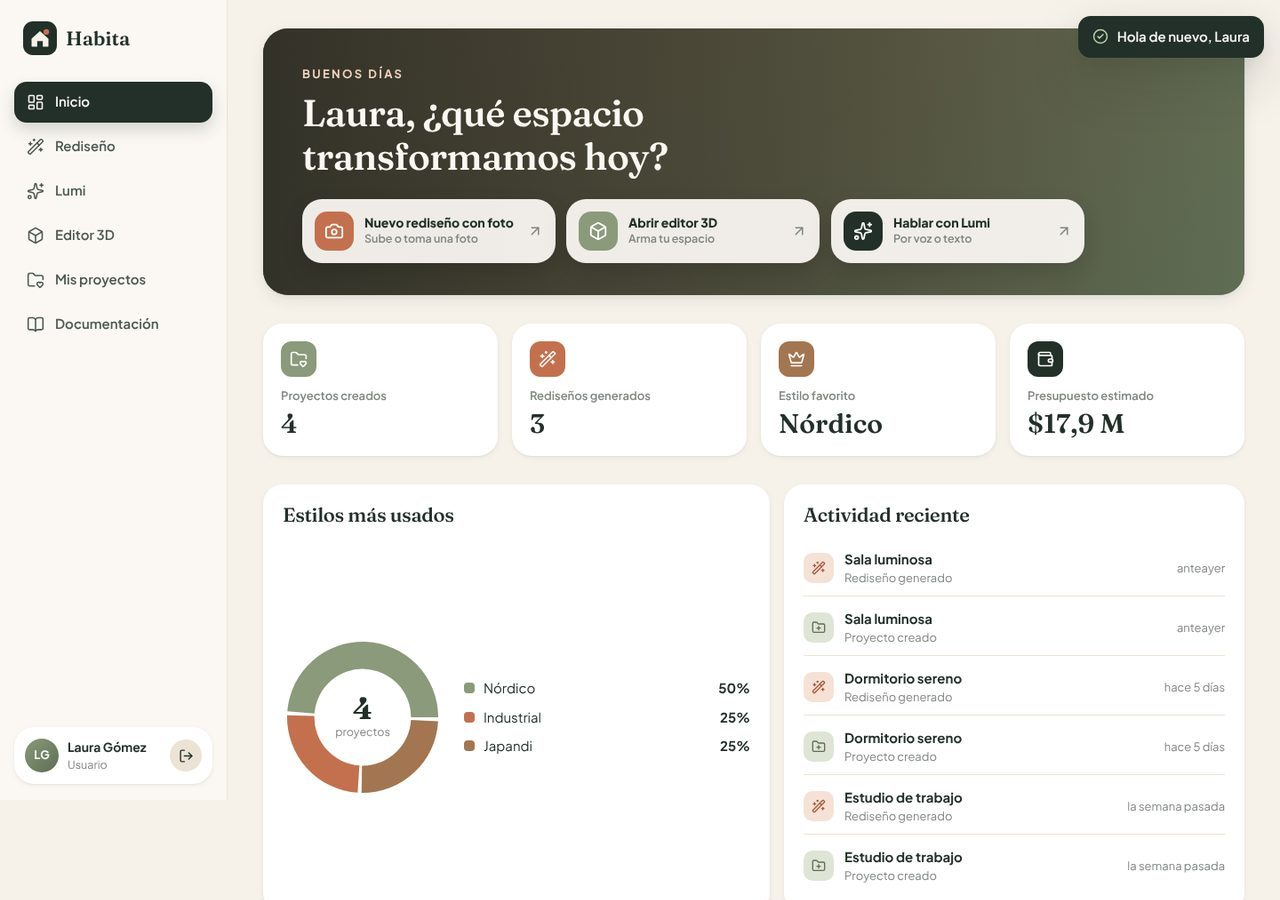
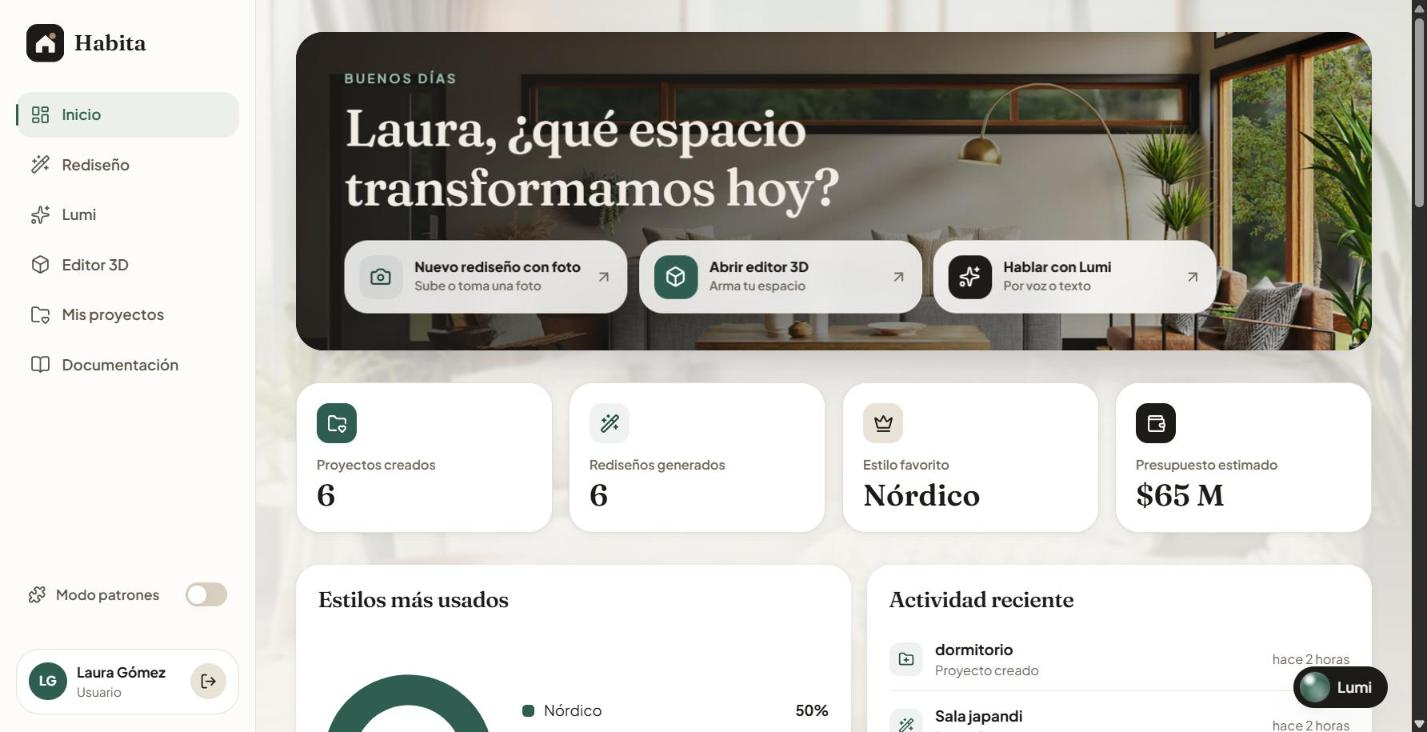
docs: update the README with final screenshots and phase 8 features
Retake the screenshots from the deployed app on desktop and mobile, add
the targeted edits, pattern mode, pattern card and SOLID captures, and
document the demo access, UI tests, lint in CI and the missing
environment variables.

diff --git a/README.md b/README.md
@@ -26,38 +26,50 @@ Proyecto final de **Patrones de Diseño**
 
 ## Capturas
 
-| Login con selector de cuenta                  | Inicio                                               |
-| --------------------------------------------- | ---------------------------------------------------- |
-| ![Login](docs/screenshots/login.jpg)          | ![Inicio](docs/screenshots/dashboard.jpg)            |
-| **Rediseño con foto (antes / después)**       | **Editor 3D**                                        |
-| ![Rediseño](docs/screenshots/rediseno.jpg)    | ![Editor 3D](docs/screenshots/editor-3d.jpg)         |
-| **Lumi ejecutando órdenes en el editor**      | **Mis proyectos**                                    |
-| ![Lumi](docs/screenshots/lumi-editor.jpg)     | ![Mis proyectos](docs/screenshots/mis-proyectos.jpg) |
-| **Panel de administración**                   | **Documentación con UML dentro de la app**           |
-| ![Administración](docs/screenshots/admin.jpg) | ![Documentación](docs/screenshots/documentacion.jpg) |
+Tomadas de la app desplegada en Vercel con la cuenta de prueba.
+
+| Login con acceso de prueba                           | Inicio                                                                                                                |
+| ---------------------------------------------------- | --------------------------------------------------------------------------------------------------------------------- |
+| ![Login](docs/screenshots/login.jpg)                 | ![Inicio](docs/screenshots/dashboard.jpg)                                                                             |
+| **Rediseño con foto (antes / después)**              | **Ediciones puntuales sobre el rediseño**                                                                             |
+| ![Rediseño](docs/screenshots/rediseno.jpg)           | ![Ediciones](docs/screenshots/ediciones-puntuales.jpg)                                                                |
+| **Editor 3D**                                        | **Mis proyectos con su foto**                                                                                         |
+| ![Editor 3D](docs/screenshots/editor-3d.jpg)         | ![Mis proyectos](docs/screenshots/mis-proyectos.jpg)                                                                  |
+| **Modo patrones en el editor**                       | **Ficha de un patrón con demo y UML**                                                                                 |
+| ![Modo patrones](docs/screenshots/modo-patrones.jpg) | ![Ficha de patrón](docs/screenshots/ficha-patron.jpg)                                                                 |
+| **Lumi**                                             | **Lumi ejecutando órdenes en el editor**                                                                              |
+| ![Lumi](docs/screenshots/lumi.jpg)                   | ![Lumi en el editor](docs/screenshots/lumi-editor.jpg)                                                                |
+| **Documentación**                                    | **Principios SOLID**                                                                                                  |
+| ![Documentación](docs/screenshots/documentacion.jpg) | ![SOLID](docs/screenshots/solid.jpg)                                                                                  |
+| **Panel de administración**                          | **En el celular**                                                                                                     |
+| ![Administración](docs/screenshots/admin.jpg)        | ![Inicio en el celular](docs/screenshots/inicio-celular.jpg) ![Lumi en el celular](docs/screenshots/lumi-celular.jpg) |
 
 ## Funcionalidades
 
-| Sección               | Qué hace                                                                                                                                                                                                                 |
-| --------------------- | ------------------------------------------------------------------------------------------------------------------------------------------------------------------------------------------------------------------------ |
-| **Login y registro**  | Login centrado con selector Usuario / Administrador, validaciones en vivo y sesión con JWT.                                                                                                                              |
-| **Inicio**            | Resumen de proyectos, rediseños, estilo favorito y presupuesto, con gráfica de estilos y actividad reciente.                                                                                                             |
-| **Rediseño con foto** | Sube o toma una foto con la cámara del celular, elige habitación, estilo, paleta y presupuesto; la IA devuelve la imagen rediseñada, colores, muebles y materiales con precio. Comparador antes / después y variaciones. |
-| **Editor 3D**         | Arma la habitación con muebles del catálogo: mover, rotar, duplicar, agrupar, colores, acabados y complementos, deshacer y rehacer, vista de planta, captura, versiones y guardado automático.                           |
-| **Lumi**              | Asistente por voz o texto. Entiende lo que pides y lo hace: crea proyectos, te lleva al rediseño, agrega muebles, pinta paredes, cambia la luz o deshace cambios. Puede leer sus respuestas en voz alta.                 |
-| **Mis proyectos**     | Buscar, filtrar por estado o tipo, ordenar, renombrar, duplicar y eliminar.                                                                                                                                              |
-| **Administración**    | Solo para administradores: métricas de la plataforma, usuarios (rol y activación), catálogo (precios, muebles nuevos, estilos y complementos visibles) y reportes CSV.                                                   |
-| **Documentación**     | Arquitectura, cuentas de prueba, diagrama entidad relación y cada patrón con su problema, solución, archivos y diagrama UML (Mermaid).                                                                                   |
+| Sección                 | Qué hace                                                                                                                                                                                                                     |
+| ----------------------- | ---------------------------------------------------------------------------------------------------------------------------------------------------------------------------------------------------------------------------- |
+| **Login y registro**    | Login con selector Usuario / Administrador, validaciones en vivo, sesión con JWT y **acceso de prueba** con un clic (las cuentas salen del backend).                                                                         |
+| **Inicio**              | Resumen de proyectos, rediseños, estilo favorito y presupuesto, con gráfica de estilos y actividad reciente.                                                                                                                 |
+| **Rediseño con foto**   | Sube o toma una foto con la cámara del celular, elige habitación, estilo, paleta y presupuesto; la IA devuelve la imagen rediseñada, colores, muebles y materiales con precio. Comparador antes / después y variaciones.     |
+| **Ediciones puntuales** | Sobre un rediseño: pintar paredes, cambiar el piso, borrar un objeto o cambiar un mueble sin tocar el resto de la foto. Opción para respetar el cuarto real (paredes, ventanas y puertas) y elegir muebles que se conservan. |
+| **Editor 3D**           | Arma la habitación con muebles del catálogo: mover, rotar, duplicar, agrupar, colores, acabados y complementos, deshacer y rehacer, vista de planta, captura, versiones y guardado automático.                               |
+| **Lumi**                | Asistente por voz o texto. Entiende lo que pides y lo hace: crea proyectos, te lleva al rediseño, agrega muebles, pinta paredes, cambia la luz o deshace cambios. Puede leer sus respuestas en voz alta.                     |
+| **Mis proyectos**       | Buscar, filtrar por estado o tipo, ordenar, renombrar, duplicar y eliminar. Cada proyecto con foto muestra su antes / después y lo abre al tocarlo.                                                                          |
+| **Administración**      | Solo para administradores: métricas de la plataforma, usuarios (rol y activación), catálogo (precios, muebles nuevos, estilos y complementos visibles) y reportes CSV.                                                       |
+| **Modo patrones**       | Interruptor del menú: cada pantalla muestra qué patrones usa; al tocar uno se abre su ficha con problema, solución, una demo interactiva y el diagrama UML.                                                                  |
+| **Documentación**       | Arquitectura, cuentas de prueba, diagrama entidad relación, cada patrón con su problema, solución, archivos y diagrama UML (Mermaid), y los principios SOLID con los patrones que los cumplen.                               |
 
 ## Guía rápida para la evaluación
 
 1. Abrir https://decora-ia-frontend.vercel.app (si el backend estuvo dormido, el primer ingreso tarda unos segundos en Render).
-2. Entrar como **Usuario** con `usuario@habita.app` / `Habita2026`.
+2. Entrar como **Usuario** con el botón de _Acceso de prueba_ (o con `usuario@habita.app` / `Habita2026`).
 3. **Rediseño:** subir una foto de una sala, elegir _Japandi_ y ver el antes / después con su presupuesto.
 4. **Editor 3D:** abrir un proyecto, mover un mueble, agregarle cojines y probar _Deshacer_ (Ctrl + Z).
 5. **Lumi:** tocar el botón flotante y decir o escribir _"agrega una planta"_ y _"pinta las paredes verde salvia"_.
-6. **Documentación:** mostrar los patrones con sus diagramas UML y el diagrama de la base de datos.
-7. Cerrar sesión y entrar como **Administrador** con `admin@habita.app` / `Habita2026` para ver métricas, usuarios, catálogo y reportes.
+6. **Ediciones puntuales:** en el rediseño, tocar _Editar una parte_ y pintar las paredes de otro color.
+7. **Modo patrones:** activar el interruptor del menú y tocar un patrón para ver su ficha, su demo y su UML.
+8. **Documentación:** mostrar los patrones con sus diagramas UML, los principios SOLID y el diagrama de la base de datos.
+9. Cerrar sesión y entrar como **Administrador** con `admin@habita.app` / `Habita2026` para ver métricas, usuarios, catálogo y reportes.
 
 ## Patrones aplicados en el frontend
 
@@ -108,8 +120,12 @@ docker run -p 8080:80 habita-frontend      # http://localhost:8080
 
 ## Calidad
 
-- **45 pruebas** con Vitest: comandos de deshacer / rehacer, fábricas de muebles, composite, filtros y orden de proyectos, bus de Lumi, conversación, adaptador de voz, formatos y validaciones.
-- **Integración continua** con GitHub Actions: en cada push se ejecutan las pruebas, la compilación de TypeScript y la imagen de Docker.
+- **104 pruebas** con Vitest:
+  - **Lógica:** comandos de deshacer / rehacer, fábricas de muebles, composite, mediador del editor, filtros y orden de proyectos, bus de Lumi, conversación, adaptador de voz, modo patrones, formatos y validaciones.
+  - **Interfaz** (Testing Library + jsdom): botones, pestañas con teclado, paginador, campos de formulario, diálogo de confirmación, acceso de prueba, rutas protegidas y el flujo completo del login.
+- **ESLint** (typescript-eslint, react-hooks, jsx-a11y) y **Prettier** sin advertencias.
+- **Integración continua** con GitHub Actions: en cada push y pull request se ejecutan lint, formato, pruebas, compilación y la imagen de Docker.
+- Revisión manual en PC y celular antes de la entrega.
 - Despliegue automático en **Vercel** desde `main`, con cabeceras de seguridad (CSP, HSTS, permisos de cámara y micrófono) en [`vercel.json`](vercel.json).
 
 ## Variables de entorno
@@ -129,6 +145,9 @@ Todas están documentadas en [`.env.example`](.env.example) y se leen en un úni
 | `VITE_EDITOR_HISTORY_LIMIT`, `VITE_EDITOR_AUTOSAVE_MS`, `VITE_EDITOR_DUPLICATE_OFFSET` | Pasos que se pueden deshacer, espera del guardado automático y separación de una copia |
 | `VITE_AUTH_IMAGE_URL`                                                                  | Foto de fondo del login                                                                |
 | `VITE_DASHBOARD_BANNER_URL`                                                            | Foto del banner del inicio                                                             |
+| `VITE_DASHBOARD_BACKDROP_URL` / `VITE_EMPTY_STATE_IMAGE_URL`                           | Foto de fondo del inicio y foto de los estados vacíos                                  |
+| `VITE_PHOTO_INTERVAL_MS`                                                               | Tiempo que se muestra cada foto de un carrusel                                         |
+| `VITE_DEV_PORT`                                                                        | Puerto del servidor de desarrollo                                                      |
 | `VITE_PHOTO_CREDITS_NAME` / `VITE_PHOTO_CREDITS_URL`                                   | Créditos de las fotos                                                                  |
 
 ## Estructura
@@ -147,6 +166,10 @@ src/
 ├── projects/        Búsqueda, filtros y orden de Mis proyectos
 ├── components/assistant/ Chat de Lumi, botón flotante y ejecutor de acciones
 ├── assistant/       Voz (Adapter), bus de acciones y conversación (Observer)
+├── patterns/        Modo patrones: qué patrones usa cada pantalla
+├── routes/          Páginas con carga diferida
+├── test/            Configuración de las pruebas de interfaz
+├── components/ui/   Botón, pestañas, paginador, modal y otras piezas compartidas
 ├── components/      Piezas reutilizables de la interfaz
 ├── context/         Sesión del usuario
 ├── hooks/           Hooks propios
